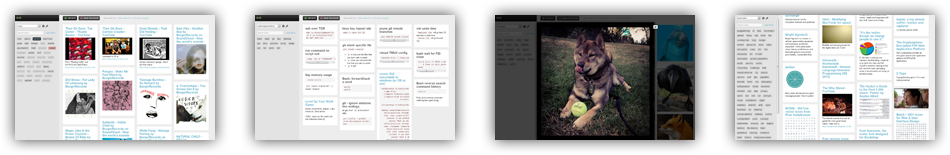
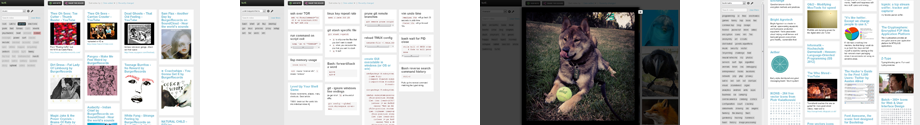
moving screenshots to about page since they are no longer in the slides

diff --git a/webroot/css/site.css b/webroot/css/site.css
@@ -66,16 +66,7 @@ section.callout > div.download + p a {color: #000; font-size: 12px; font-family:
 .slideshow .pager a span {display: none;}
 /* per-slide styles */
 .slideshow #slide-1 p.note {position: absolute; bottom: 220px; width: 100%; margin: 0; padding: 0; font-family: 'Roboto Condensed'; font-size: 15px; word-spacing: .06em; letter-spacing: .04em; color: #fff; text-align: center; opacity: .8;}
-.slideshow #slide-2 ul.screenshots {position: absolute; z-index: 3; bottom: 110px; width: 100%; list-style: none; text-align: center; margin: 0 auto;}
-.slideshow #slide-2 ul.screenshots li {display: inline-block; opacity: .8; background: url(/images/home/screens/thumbs.png) 0 0 no-repeat; transition: opacity .15s;}
-.slideshow #slide-2 ul.screenshots li:hover {opacity: 1;}
-.slideshow #slide-2 ul.screenshots li a {display: block; width: 230px; height: 155px;}
-.slideshow #slide-2 ul.screenshots li span {display: none;}
-.slideshow #slide-2 ul.screenshots li.playlist {}
-.slideshow #slide-2 ul.screenshots li.code {background-position: -240px 0;}
-.slideshow #slide-2 ul.screenshots li.add {background-position: -480px 0;}
-.slideshow #slide-2 ul.screenshots li.kofi {background-position: -480px 0;}
-.slideshow #slide-2 ul.screenshots li.bookmarks {background-position: -720px 0;}
+.slideshow #slide-2 ul.screenshots {position: absolute; z-index: 3; bottom: 110px;}
 .slideshow #slide-3 .mailing-list {position: absolute; z-index: 3; bottom: 105px; width: 100%; text-align: center;}
 .slideshow #slide-3 .mailing-list .note {color: #fff;}
 
@@ -108,6 +99,21 @@ section.callout > div.download + p a {color: #000; font-size: 12px; font-family:
 .splash .imgnav {margin: 0 0 0 0;}
 .splash .extra {color: #444;}
 .splash .extra p {}
+
+/* --------------------------------------------------------------------------
+ * screenshots
+ * -------------------------------------------------------------------------- */
+ul.screenshots {width: 100%; list-style: none; text-align: center; margin: 0 auto;}
+section ul.screenshots {margin-top: 32px; margin-bottom: 24px;}
+ul.screenshots li {display: inline-block; margin: 0 8px; opacity: .9; background: url(/images/home/screens/thumbs.png) 0 0 no-repeat; transition: opacity .15s;}
+ul.screenshots li:hover {opacity: 1;}
+ul.screenshots li a {display: block; width: 200px; height: 125px; box-shadow: 0 0 8px 0 rgba(0, 0, 0, .9);}
+ul.screenshots li span {display: none;}
+ul.screenshots li.playlist {}
+ul.screenshots li.code {background-position: -240px 0;}
+ul.screenshots li.add {background-position: -480px 0;}
+ul.screenshots li.kofi {background-position: -480px 0;}
+ul.screenshots li.bookmarks {background-position: -720px 0;}
 
 /* --------------------------------------------------------------------------
  * downloads/buttons

diff --git a/views/pages/about.md b/views/pages/about.md
@@ -17,6 +17,21 @@ to get a sense for what's to come.
 
 For more information, head over to the [Turtl documentation](/docs).
 
+<ul class="screenshots">
+    <li class="playlist">
+        <a rel="modal 800" target="_blank" title="Playlist board" href="/images/home/screens/playlist.jpg"><span>Playlists</span></a>
+    </li>
+    <li class="bookmarks">
+        <a rel="modal 800" target="_blank" title="Bookmarks" href="/images/home/screens/bookmarks.jpg"><span>Bookmarks</span></a>
+    </li>
+    <li class="kofi">
+        <a rel="modal 800" target="_blank" title="Kofi guarding a ball" href="/images/home/screens/kofi.jpg"><span>Kofi</span></a>
+    </li>
+    <li class="code">
+        <a rel="modal 800" target="_blank" title="Code snippets" href="/images/home/screens/code.jpg"><span>Code</span></a>
+    </li>
+</ul>
+
 The philosophy
 ==============
 
@@ -36,7 +51,7 @@ Because it's nobody else's business but yours.
 Turtl is beta
 =============
 
-Turtl is <strong>beta</strong>. Neither its security architecture or the code
+Turtl is __beta__. Neither its security architecture or the code
 supporting it have been evaluated by security professionals.
 
 *Please do not trust Turtl's security with your life*.

diff --git a/views/pages/pricing.md b/views/pages/pricing.md
@@ -23,6 +23,7 @@ markdown: off
                 <a href="/download">Download now</a>
             </div>
         </li>
+        <!--
         <li class="emphasize">
             <h2>Donor</h2>
             <em>Help keep Turtl going!</em>
@@ -31,7 +32,8 @@ markdown: off
                 <a href="/donate">Donate</a>
             </div>
         </li>
-        <li>
+        -->
+        <li class="emphasize">
             <h2>Premium</h2>
             <em>Store up to 20gb</em>
             <p><strong>$5</strong> / mo</p>
